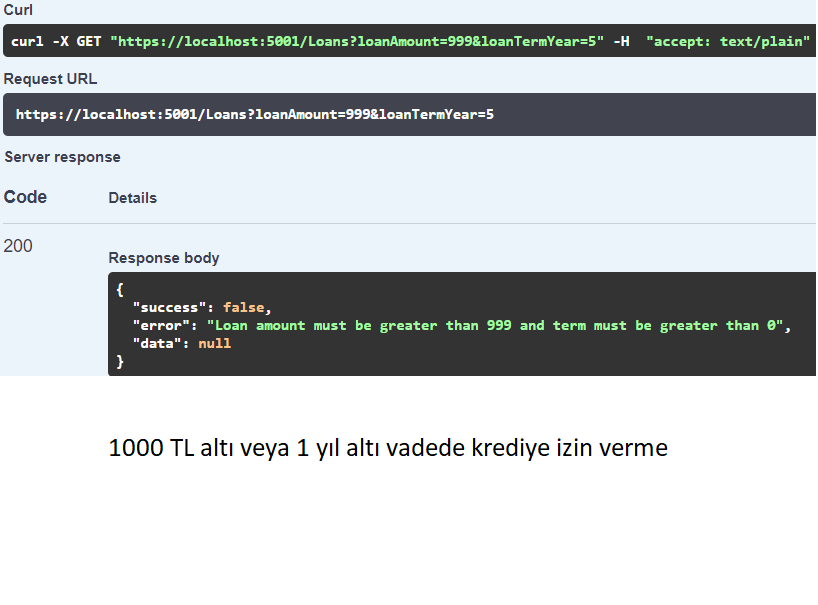
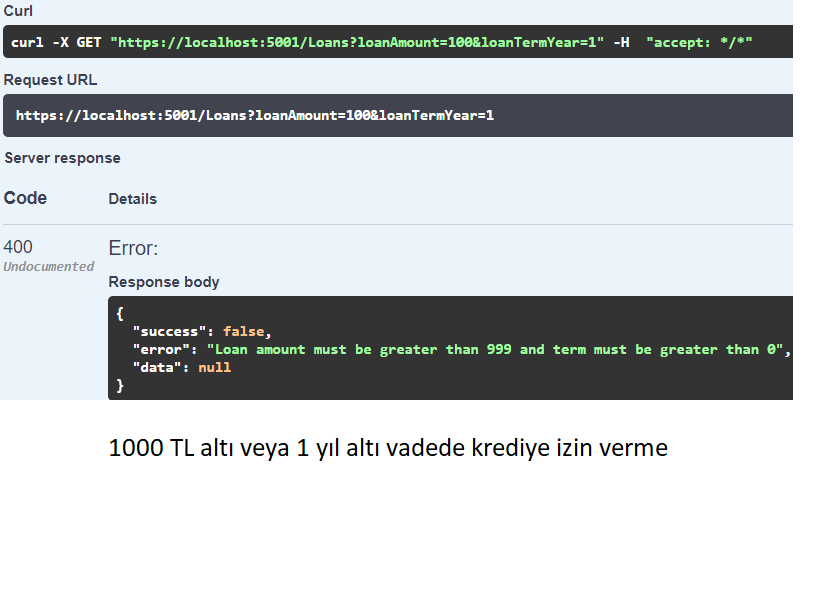
change error status code

diff --git a/LoanCalculator.API/Controllers/LoansController.cs b/LoanCalculator.API/Controllers/LoansController.cs
@@ -23,12 +23,12 @@ namespace LoanCalculator.API.Controllers
 
         // Toplam ödenecek ücret ve faiz miktarı bilgisini içeren yanıtı döndürür 
         [HttpGet]
-        public CommonResponse<LoanPayment> Get([FromQuery] uint loanAmount, byte loanTermYear)
+        public IActionResult Get([FromQuery] uint loanAmount, byte loanTermYear)
         {
             if (loanAmount < 1000 || loanTermYear == 0)
             {
-                var res = new CommonResponse<LoanPayment>("Loan amount must be greater than 999 and term must be greater than 0");
-                return res;
+                var errRes = new CommonResponse<LoanPayment>("Loan amount must be greater than 999 and term must be greater than 0");
+                return BadRequest(errRes);
             }
             
             uint totalNumberOfPayments = loanTermYear * JsonSerializer.Deserialize<uint>(Configuration["MonthsPerYear"]);
@@ -38,18 +38,19 @@ namespace LoanCalculator.API.Controllers
             double totalPayment = Math.Round((totalNumberOfPayments * montlyPayments), 2);
             double interestPayment = Math.Round((totalPayment - loanAmount), 2);
             
-            return new CommonResponse<LoanPayment>(new LoanPayment{TotalPayment = totalPayment, InterestPayment = interestPayment});
+            var res = new CommonResponse<LoanPayment>(new LoanPayment{TotalPayment = totalPayment, InterestPayment = interestPayment});
+            return Ok(res);
         }
 
         // Aylık detaylı ödeme planını içeren yanıtı döndürür
         [HttpGet]
         [Route("GetPaymentPlan")]
-        public CommonResponse<List<MonthlyPayment>> GetPaymentPlan([FromQuery] uint loanAmount, byte loanTermYear)
+        public IActionResult GetPaymentPlan([FromQuery] uint loanAmount, byte loanTermYear)
         {
             if (loanAmount < 1000 || loanTermYear == 0)
             {
-                var res = new CommonResponse<List<MonthlyPayment>>("Loan amount must be greater than 999 and term must be greater than 0");
-                return res;
+                var errRes = new CommonResponse<List<MonthlyPayment>>("Loan amount must be greater than 999 and term must be greater than 0");
+                return BadRequest(errRes);
             }
             
             uint totalNumberOfPayments = loanTermYear * JsonSerializer.Deserialize<uint>(Configuration["MonthsPerYear"]);
@@ -69,7 +70,7 @@ namespace LoanCalculator.API.Controllers
                 payments.Add(payment);
             }
             
-            return new CommonResponse<List<MonthlyPayment>>(payments);
+            return Ok(new CommonResponse<List<MonthlyPayment>>(payments));
         }
 
         private double calculateMontlyPayment(uint loanAmount, float interestRate, uint totalNumberOfPayments)
